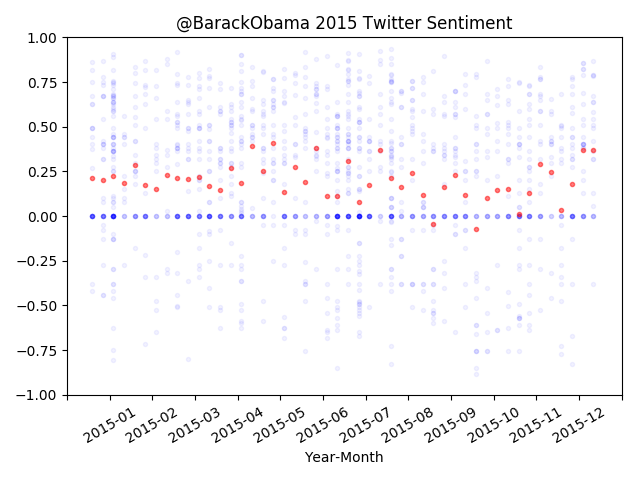
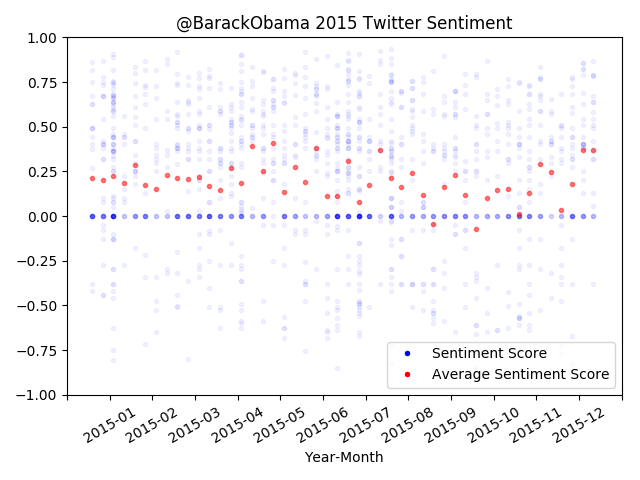
[1] Adding Legend to Examples

Changed region(s): [[0.625, 0.7188, 0.9688, 0.8125]]

diff --git a/sentiment_analysis.py b/sentiment_analysis.py
@@ -13,6 +13,7 @@ from authorization import authorization
 
 nltk.download('vader_lexicon', quiet=True)
 matplotlib.use('agg', warn=False, force=True)
+from matplotlib.lines import Line2D
 from matplotlib import pyplot as plt
 
 
@@ -87,7 +88,23 @@ class PlotSentiment(object):
         ticks = np.arange(start, stop + self.xres, self.xres)
         ax.set_xticks(ticks)
         plt.tight_layout()
+        legend_elements = [
+            Line2D([0], [0], marker='.', color='w', label='Sentiment Score',
+                   markerfacecolor='b', markersize=10),
+            Line2D([0], [0], marker='.', color='w', label='Average Sentiment Score',
+                   markerfacecolor='r', markersize=10)
+        ]
+        plt.legend(handles=legend_elements, loc='lower right')
         plt.savefig(save_name)
+
+        # plt.axvline(x=37.65+(45.65-41.65)/31*11, label='Presidential Election'.format(37.65), c='g', alpha=0.5)
+        # legend_elements += [Line2D([0], [0], color='g', label='Presidential Election')]
+
+        # plt.axvline(x=ticks[1]+(ticks[1]-ticks[0])/31*20, label='Obama Leaves Office'.format(37.65), c='g', alpha=0.5)
+        # legend_elements += [Line2D([0], [0], color='g', label='Obama Leaves Office')]
+
+        # plt.legend(handles=legend_elements, loc='lower right')
+        # plt.savefig(save_name)
 
     def get_data_dict(self, data_array):
         my_dict = defaultdict(list)
